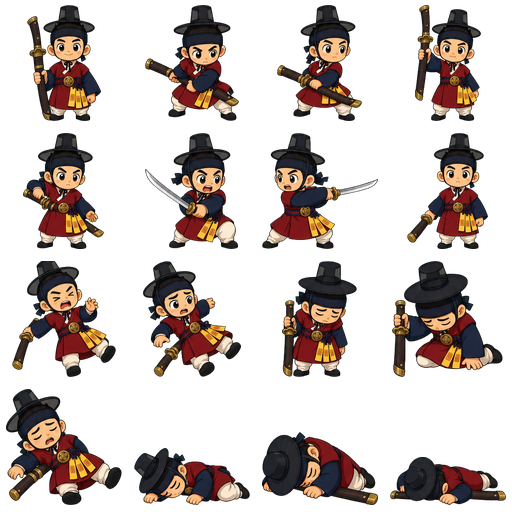
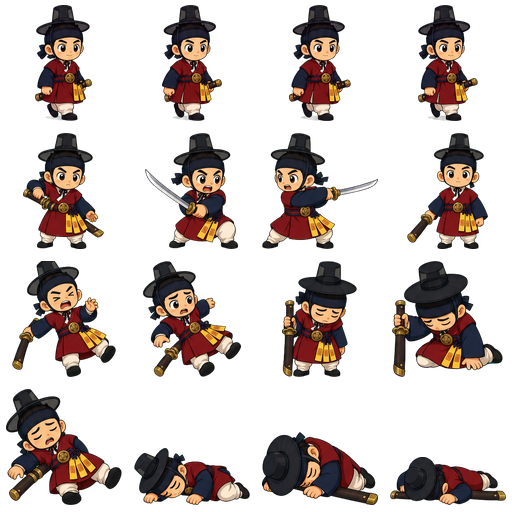
fix: harden exorcist animation states

diff --git a/test/game/player_component_test.dart b/test/game/player_component_test.dart
@@ -1,3 +1,4 @@
+import 'dart:io';
 import 'dart:ui';
 
 import 'package:flame/components.dart';
@@ -51,6 +52,99 @@ void main() {
       expect(PlayerSpriteSheet.hitFrames, [8, 9]);
       expect(PlayerSpriteSheet.deathFrames, [10, 11, 12, 13, 14, 15]);
     });
+
+    test(
+      'real authored animation map keeps idle on one stable frame',
+      () async {
+        final image = await _loadAuthoredAtlas();
+        addTearDown(image.dispose);
+        final player = PlayerComponent(
+          slotIndex: 0,
+          characterId: exorcistDosa,
+          maxHealth: 100,
+          moveSpeed: 120,
+        )..animations = PlayerSpriteSheet.animations(image);
+        player.current = PlayerAnimationState.idle;
+
+        expect(
+          player.animations![PlayerAnimationState.idle]!.frames,
+          hasLength(1),
+        );
+        player.update(1);
+
+        expect(player.animationTicker!.currentIndex, 0);
+        expect(player.visualState, PlayerAnimationState.idle);
+      },
+    );
+
+    test('repeated authored attack explicitly restarts its ticker', () async {
+      final image = await _loadAuthoredAtlas();
+      addTearDown(image.dispose);
+      final player = PlayerComponent(
+        slotIndex: 0,
+        characterId: exorcistDosa,
+        maxHealth: 100,
+        moveSpeed: 120,
+      )..animations = PlayerSpriteSheet.animations(image);
+      player.current = PlayerAnimationState.idle;
+
+      player.playAttack(Vector2(1, 0));
+      player.update(0.15);
+      expect(player.animationTicker!.currentIndex, greaterThan(0));
+
+      player.playAttack(Vector2(1, 0));
+
+      expect(player.visualState, PlayerAnimationState.attacking);
+      expect(player.animationTicker!.currentIndex, 0);
+    });
+
+    test('hit and death outrank attack while lethal damage clears pose', () {
+      final player = PlayerComponent(
+        slotIndex: 0,
+        characterId: exorcistDosa,
+        maxHealth: 100,
+        moveSpeed: 120,
+      );
+
+      expect(player.playAttack(Vector2(1, 0)), isTrue);
+      player.takeDamage(10);
+      expect(player.visualState, PlayerAnimationState.hit);
+      expect(player.isAttacking, isFalse);
+
+      expect(player.playAttack(Vector2(1, 0)), isFalse);
+      expect(player.visualState, PlayerAnimationState.hit);
+
+      player.takeDamage(90);
+      expect(player.visualState, PlayerAnimationState.death);
+      expect(player.isAttacking, isFalse);
+
+      expect(player.playAttack(Vector2(1, 0)), isFalse);
+      expect(player.visualState, PlayerAnimationState.death);
+      expect(player.isAttacking, isFalse);
+    });
+
+    test(
+      'exorcist selects authored atlas and legacy character stays static',
+      () {
+        final exorcist = PlayerComponent(
+          slotIndex: 0,
+          characterId: exorcistDosa,
+          maxHealth: 100,
+          moveSpeed: 120,
+        );
+        final legacy = PlayerComponent(
+          slotIndex: 0,
+          characterId: rookieConstable,
+          maxHealth: 100,
+          moveSpeed: 120,
+        );
+
+        expect(exorcist.usesAuthoredAtlas, isTrue);
+        expect(exorcist.visualAssetKey, PlayerSpriteSheet.authoredAssetKey);
+        expect(legacy.usesAuthoredAtlas, isFalse);
+        expect(legacy.visualAssetKey, PlayerSpriteSheet.assetKey);
+      },
+    );
 
     test('normalizes diagonal movement so it does not exceed move speed', () {
       final player = PlayerComponent(
@@ -266,4 +360,14 @@ void main() {
       expect(player.isMoving, isTrue);
     });
   });
+}
+
+Future<Image> _loadAuthoredAtlas() async {
+  final bytes = File(
+    'assets/images/player/exorcist_dosa_128.png',
+  ).readAsBytesSync();
+  final codec = await instantiateImageCodec(bytes);
+  final frame = await codec.getNextFrame();
+  codec.dispose();
+  return frame.image;
 }

diff --git a/lib/game/components/player_component.dart b/lib/game/components/player_component.dart
@@ -25,6 +25,7 @@ abstract final class PlayerSpriteSheet {
   static const frameCount = 1;
   static const authoredAssetKey = 'player/exorcist_dosa_128.png';
   static final authoredFrameSize = Vector2.all(128);
+  static const idleFrames = [0];
   static const moveFrames = [0, 1, 2, 3];
   static const attackFrames = [4, 5, 6, 7];
   static const hitFrames = [8, 9];
@@ -53,7 +54,7 @@ abstract final class PlayerSpriteSheet {
     );
 
     return {
-      PlayerAnimationState.idle: animation(moveFrames, 0.14),
+      PlayerAnimationState.idle: animation(idleFrames, 1),
       PlayerAnimationState.walking: animation(moveFrames, 0.11),
       PlayerAnimationState.attacking: animation(
         attackFrames,
@@ -112,6 +113,10 @@ class PlayerComponent
   bool get isAlive => currentHealth > 0;
   bool get isMoving => _isMoving;
   bool get isAttacking => _attackPoseRemaining > 0;
+  bool get usesAuthoredAtlas => characterId == exorcistDosa;
+  String get visualAssetKey => usesAuthoredAtlas
+      ? PlayerSpriteSheet.authoredAssetKey
+      : PlayerSpriteSheet.assetKey;
   bool get isFacingLeft => _desiredFacingX < 0;
   double get motionBlend => _motionBlend;
   double get environmentalSlowFraction => _environmentalSlowFraction;
@@ -149,6 +154,7 @@ class PlayerComponent
     if (now != null) {
       _nextDamageAt = now + CombatFeedbackTuning.playerInvulnerabilitySeconds;
     }
+    _attackPoseRemaining = 0;
     if (isAlive) {
       _hitAnimationRemaining = PlayerSpriteSheet.hitDurationSeconds;
       _setVisualState(PlayerAnimationState.hit);
@@ -217,7 +223,12 @@ class PlayerComponent
     }
   }
 
-  void playAttack(Vector2 direction) {
+  bool playAttack(Vector2 direction) {
+    if (!isAlive ||
+        visualState == PlayerAnimationState.hit ||
+        visualState == PlayerAnimationState.death) {
+      return false;
+    }
     final normalizedDirection = direction.length2 == 0
         ? Vector2(1, 0)
         : direction.normalized();
@@ -227,6 +238,11 @@ class PlayerComponent
     }
     _attackPoseRemaining = attackPoseDurationSeconds;
     _setVisualState(PlayerAnimationState.attacking);
+    // Assigning the same group state does not reset Flame's ticker. Multi-hit
+    // hwando sequences can request another slash before the prior pose ends,
+    // so restart explicitly even when `attacking` is already current.
+    animationTicker?.reset();
+    return true;
   }
 
   @override
@@ -242,14 +258,10 @@ class PlayerComponent
       // Pure game-loop tests intentionally run without a Flutter binding.
       return;
     }
-    final usesAuthoredAtlas = characterId == exorcistDosa;
-    final assetKey = usesAuthoredAtlas
-        ? PlayerSpriteSheet.authoredAssetKey
-        : PlayerSpriteSheet.assetKey;
     final image = await SafeAssetLoader.load(
-      load: () => findGame()!.images.load(assetKey),
+      load: () => findGame()!.images.load(visualAssetKey),
       library: 'pixel_survivor player sprites',
-      assetKey: assetKey,
+      assetKey: visualAssetKey,
     );
     if (image == null) return;
     if (usesAuthoredAtlas) {

diff --git a/test/game/pixel_survivor_game_loop_test.dart b/test/game/pixel_survivor_game_loop_test.dart
@@ -16,6 +16,7 @@ import 'package:pixel_survivor/game/components/experience_gem_component.dart';
 import 'package:pixel_survivor/game/components/frost_field_component.dart';
 import 'package:pixel_survivor/game/components/five_color_ward_component.dart';
 import 'package:pixel_survivor/game/components/projectile_component.dart';
+import 'package:pixel_survivor/game/components/player_component.dart';
 import 'package:pixel_survivor/game/components/spirit_jade_component.dart';
 import 'package:pixel_survivor/game/components/talisman_presentation_component.dart';
 import 'package:pixel_survivor/game/components/ward_aura_component.dart';
@@ -183,6 +184,53 @@ void main() {
   );
 
   group('PixelSurvivorGame run loop progression', () {
+    test(
+      'selected character keeps authored versus legacy player art',
+      () async {
+        final exorcistGame = PixelSurvivorGame(
+          playerSlot: const PlayerSlot(index: 0, characterId: exorcistDosa),
+          onRunEnded: null,
+          loadVisualAssets: false,
+        );
+        exorcistGame.onGameResize(Vector2(960, 540));
+        await exorcistGame.onLoad();
+
+        expect(exorcistGame.activePlayers.single.characterId, exorcistDosa);
+        expect(exorcistGame.activePlayers.single.usesAuthoredAtlas, isTrue);
+
+        final legacyGame = PixelSurvivorGame(
+          playerSlot: const PlayerSlot(index: 0, characterId: rookieConstable),
+          onRunEnded: null,
+          loadVisualAssets: false,
+        );
+        legacyGame.onGameResize(Vector2(960, 540));
+        await legacyGame.onLoad();
+
+        expect(legacyGame.activePlayers.single.characterId, rookieConstable);
+        expect(legacyGame.activePlayers.single.usesAuthoredAtlas, isFalse);
+      },
+    );
+
+    test(
+      'dead player never re-enters attack state from weapon updates',
+      () async {
+        final game = PixelSurvivorGame(
+          playerSlot: const PlayerSlot(index: 0, characterId: rookieConstable),
+          onRunEnded: null,
+          loadVisualAssets: false,
+        );
+        game.onGameResize(Vector2(960, 540));
+        await game.onLoad();
+        final player = game.activePlayers.single;
+
+        player.takeDamage(player.currentHealth);
+        game.update(0.05);
+
+        expect(player.visualState, PlayerAnimationState.death);
+        expect(player.isAttacking, isFalse);
+      },
+    );
+
     test('synergy presentation uses a golden slash and five O-bang colors', () {
       expect(AttackEffectComponent.synergySlashColor, const Color(0xffffd166));
       expect(AttackEffectComponent.synergyFragmentColors, hasLength(5));

diff --git a/lib/game/pixel_survivor_game.dart b/lib/game/pixel_survivor_game.dart
@@ -635,7 +635,7 @@ class PixelSurvivorGame extends FlameGame
 
   void _updateWeapons(double dt) {
     final player = _activePlayers
-        .where((player) => player.isMounted)
+        .where((player) => player.isMounted && player.isAlive)
         .firstOrNull;
     if (player == null) {
       return;
